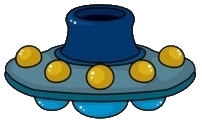
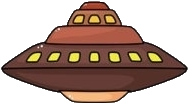
Updated Ship images and Cos Logic Added a menu

diff --git a/SpaceAce/GameWindow.xaml b/SpaceAce/GameWindow.xaml
@@ -5,7 +5,9 @@
         xmlns:mc="http://schemas.openxmlformats.org/markup-compatibility/2006"
         xmlns:local="clr-namespace:SpaceAce"
         mc:Ignorable="d"
-        Title="Space Ace - Game Screen" Height="768" Width="1024" Loaded="Window_Loaded" KeyDown="WorldCanvas_KeyDown" KeyUp="Window_KeyUp"
+        Title="Space Ace - Game Screen" Height="768" Width="1024" 
+        KeyDown="WorldCanvas_KeyDown" KeyUp="Window_KeyUp"
+        Loaded="Window_Loaded" Closed="Window_Closed"
         WindowState="Maximized"
         >
     <Window.Background>

diff --git a/SpaceAce/GameWindow.xaml.cs b/SpaceAce/GameWindow.xaml.cs
@@ -55,7 +55,8 @@ namespace SpaceAce
         public int spawnCounter = 0;
 
         public bool isPaused = false;
-
+        Button btnQUIT;
+        Button btnSAVE;
         public DispatcherTimer timer;
         public string currentLevel = "Level 1";
 
@@ -71,7 +72,32 @@ namespace SpaceAce
                 cltr.Load("SaveData.txt");
                 Draw_Load();
             }
+
+            // Quit Button
+            btnQUIT = new Button { Content = "QUIT", Width = 150, Height = 50 };
+            Canvas.SetLeft(btnQUIT, 150);
+            Canvas.SetTop(btnQUIT, 50);
+            btnQUIT.Click += btnQUIT_Click;
+
+            // Save
+            btnSAVE = new Button { Content = "SAVE", Width = 150, Height = 50 };
+            Canvas.SetLeft(btnSAVE, 350);
+            Canvas.SetTop(btnSAVE, 50);
+            btnSAVE.Click += btnSAVE_Click;
+
+            // Load ?
         }
+
+        private void btnQUIT_Click(object sender, RoutedEventArgs e)
+        {
+            this.Close();
+        }
+
+        private void btnSAVE_Click(object sender, RoutedEventArgs e)
+        {
+            cltr.Save("SaveData.txt");
+        }
+
         public void Draw_Load()
         {
             string imgname = "";
@@ -122,7 +148,10 @@ namespace SpaceAce
             timer.Start();
         }
 
-
+        private void Window_Closed(object sender, EventArgs e)
+        {
+            timer.Stop();
+        }
 
 
         public enum Id { player, computer }
@@ -168,7 +197,8 @@ namespace SpaceAce
             cltr.player.UpdatePosition(); // Update the Player Positions
             List<Entity> fired = cltr.UpdateWorld();           // Update the Model. fired: list of ships that fired 
             SpawnEntities();              // Spawn Entities
-            
+
+            Console.WriteLine("GAME IS STILL RUNNING");
             if (cltr.player.FiredABullet == true)
             {
                 MakeBullet(Id.player,cltr.player);
@@ -216,28 +246,39 @@ namespace SpaceAce
                 string pngName = "";
 
                 if (newEntity is Asteroid)
-                    {pngName = "asteroid.png";}
-                else if(newEntity is AI)
-                    {pngName = "Ship 1.png";}
-                
-                img = new Image() { Source = new BitmapImage(new Uri("images/" + pngName, UriKind.Relative)) };
-                WorldCanvas.Children.Add(img);
-                //img.Width = 50;
-                
-                
-                img.Width = newEntity.hitbox.Width;
-                img.Height = newEntity.hitbox.Height; //image is same size as hitbox
-                
-                Canvas.SetLeft(img, 0);
-                Canvas.SetTop(img, 0);
-                icons.Add(new Icon() { i = img, e = cltr.current_Enemies[cltr.current_Enemies.Count - 1] });                        
+                { pngName = "asteroid.png"; }
+                else if (newEntity is Formation)
+                {
+                    if (newEntity.Flightpath == pattern.Sin)
+                    {
+                        pngName = "Ship 3.png";
+                    }
+                    else if (newEntity.Flightpath == pattern.Cos)
+                    {
+                        pngName = "Ship 2.png";
+                    }
+                }
+                else if (newEntity is AI)
+                { pngName = "Ship 1.png"; }
+                    img = new Image() { Source = new BitmapImage(new Uri("images/" + pngName, UriKind.Relative)) };
+                    WorldCanvas.Children.Add(img);
+                    //img.Width = 50;
+
+
+                    img.Width = newEntity.hitbox.Width;
+                    img.Height = newEntity.hitbox.Height; //image is same size as hitbox
+
+                    Canvas.SetLeft(img, 0);
+                    Canvas.SetTop(img, 0);
+                icons.Add(new Icon() { i = img, e = cltr.current_Enemies[cltr.current_Enemies.Count - 1] });
             }
             else
-            {
-                ++spawnCounter;
-            }
-        }
-
+                {
+                    ++spawnCounter;
+                }
+       
+                }
+        
 
         private void WorldCanvas_KeyDown(object sender, KeyEventArgs e)
         {
@@ -247,11 +288,17 @@ namespace SpaceAce
                     if (!isPaused)
                     {
                         timer.Stop();
+                        WorldCanvas.Children.Add(btnQUIT);
+                        WorldCanvas.Children.Add(btnSAVE);
+
                         isPaused = true;
                     }
                     else
                     {
                         timer.Start();
+                        WorldCanvas.Children.Remove(btnQUIT);
+                        WorldCanvas.Children.Remove(btnSAVE);
+
                         isPaused = false;                        
                     }
                     break;
@@ -275,7 +322,8 @@ namespace SpaceAce
                     break;
 
                 case Key.S:
-                    cltr.Save("SaveData.txt"); //added by JOANNA
+                    //  Moved to Pause Menu
+                    //cltr.Save("SaveData.txt"); //added by JOANNA
                     //also, would ctrl be a better name though?
                     break;
 
@@ -291,8 +339,6 @@ namespace SpaceAce
         {
             switch (e.Key)
             {
-                case Key.Escape:
-                    break;
                 case Key.Left:
                     cltr.left = false;
                     break;
@@ -315,5 +361,7 @@ namespace SpaceAce
                     break;
             }
         }
+
+        
     }
 }

diff --git a/SpaceAce/Model/AI.cs b/SpaceAce/Model/AI.cs
@@ -11,7 +11,7 @@ namespace Model
     public class AI : Entity
     {
         public int fireCoolDown = 50;
-        public pattern Flightpath;
+        
         
         
         public AI(double X, double Y, pattern flightpath) : base(X,Y)
@@ -66,8 +66,8 @@ namespace Model
                     Y = (50 * Math.Sin(0.01 * X)) + original_Y;
                     break;
                 case pattern.Cos:
-                    X = (X - (1 * speed));
-                    Y = (50 * Math.Cos(0.01 * X)) + original_Y;
+                    X = (X - (0.5 * speed));
+                    Y = (200 * Math.Cos(0.01 * X)) + original_Y;
                     break;
                 case pattern.Tan:
                     break;

diff --git a/SpaceAce/Model/Entity.cs b/SpaceAce/Model/Entity.cs
@@ -15,7 +15,7 @@ namespace Model
         //health auto set to 1
         public int health;
         public bool FiredABullet = false;
-
+        public pattern Flightpath;
         public Rectangle hitbox;
         public double X;
         public double Y;
